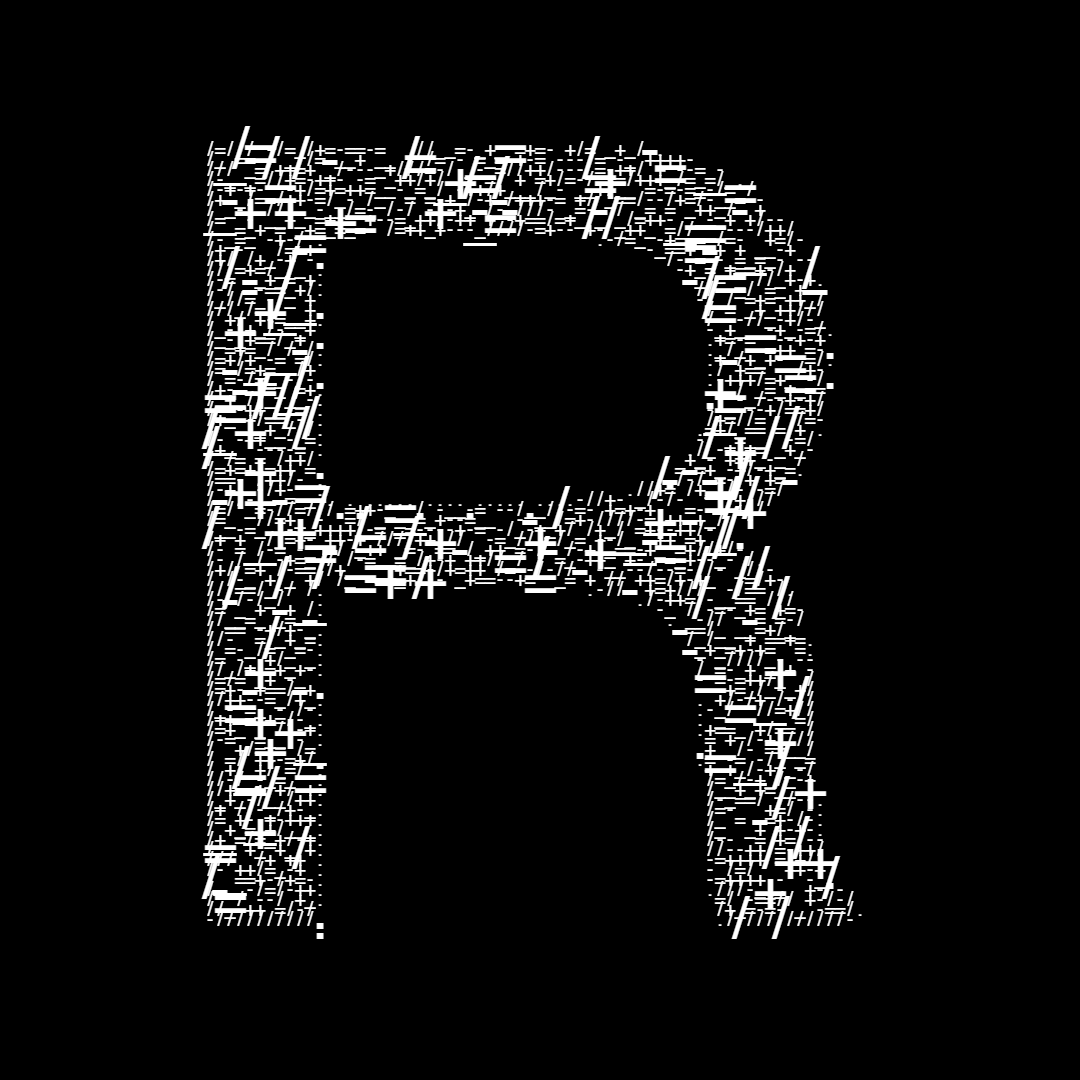
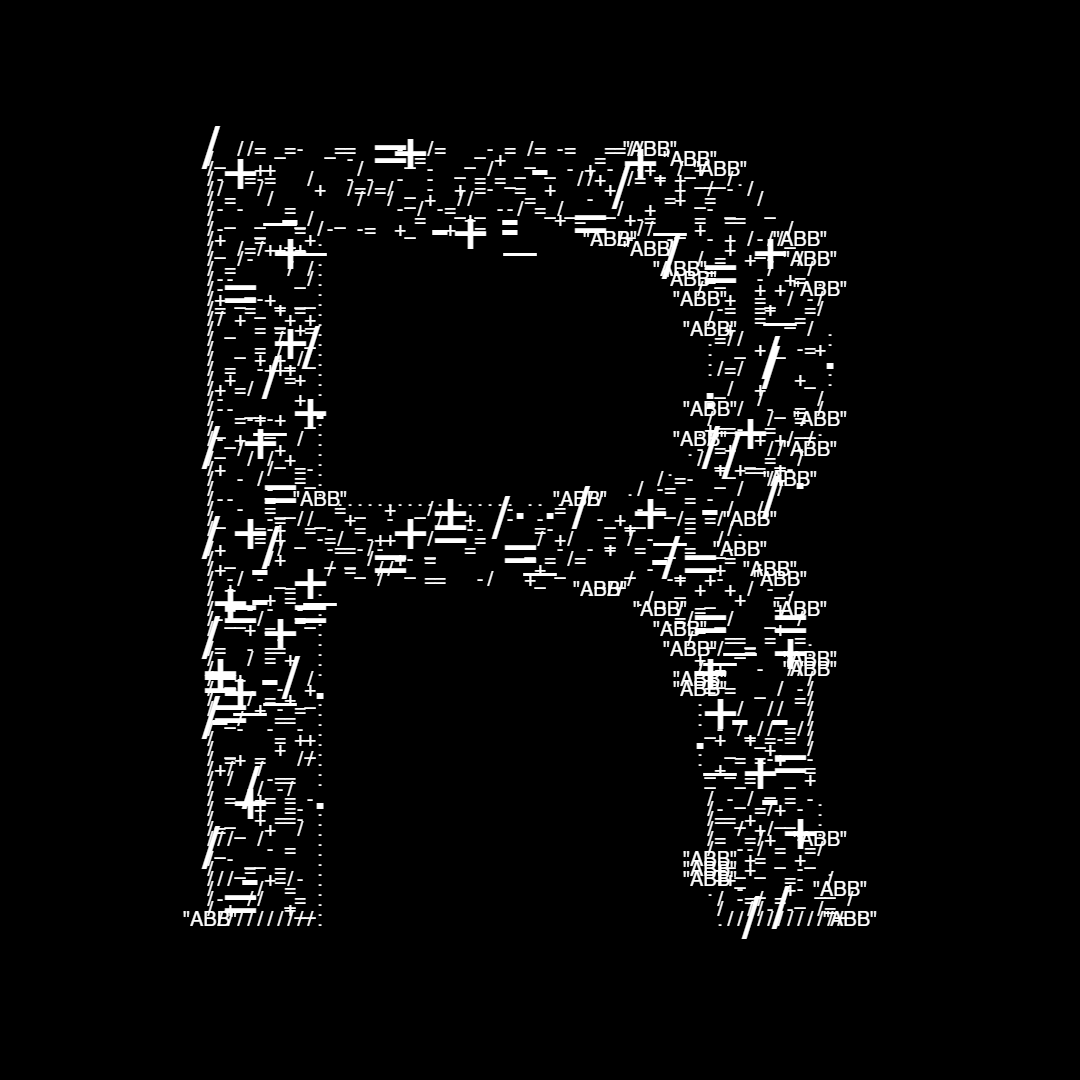
update portfolio

Changed region(s): [[0.1833, 0.1222, 0.825, 0.8861]]

diff --git a/portfolio.html b/portfolio.html
@@ -28,9 +28,7 @@
                 <li class="navbar__item">
                     <a href="index.html" class="navbar__links" id="home-page">Home</a>
                 </li>
-                <li class="navbar__item">
-                    <a href="qualifications.html" class="navbar__links" id="about-page">About</a>
-                </li>
+
                 <li class="navbar__item">
                     <a href="portfolio.html" class="navbar__links" id="portfolio-page">Portfolio</a>
                 </li>
@@ -91,7 +89,7 @@
                 <div class="contact__column">
                     <p class="contact__text">
                         
-                        JavaScript, Graphic Design, Creative Coding
+                        JavaScript | Graphic Design | Creative Coding
                         <br />
                         Personal Project
                         <br />
@@ -102,10 +100,10 @@
                 <div class="contact__column">
                     <p class="contact__text">
                     <p class="contact__text">
-                        <a href="https://instagram.com/khai_zone/" target="_blank">Github: khaihuyennguyen</a>
+                        <a> Experementing noice frequency into shapes and objects. Click Ctrl + C to save </a>
                     </p>
                     <p class="contact__text">
-                        <a href="mailto:enquiries@khai.zone" target="_blank"></a>
+                        <a href="mailto:nguyenkhaihuyen1990@gmail.com" target="_blank"></a>
                     </p>
                     </p>
                 </div>
@@ -127,7 +125,7 @@
                 <div class="contact__column">
                     <p class="contact__text">
         
-                        JavaScript, Graphic Design, Creative Coding
+                        JavaScript | Graphic Design | Creative Coding
                         <br />
                         Personal Project
                         <br />
@@ -149,21 +147,29 @@
         </section>
                 <section class="section--work">
                 
-                    <img class="gallery__img" src="./images/r.png" alt="" />
+                            <div class="gallery">
+                                <div class="gallery__item">
+                                    <a href="https://abb-tamu.herokuapp.com/#" target="_blank"> </a>
+                                    <img  href="https://abb-tamu.herokuapp.com/#" target="#" class="gallery__img" src="./images/r.png" alt="" />
+                                    
+                                    <h5 >Please contact <a href="mailto:nguyenkhaihuyen1990@gmail.com" target="_blank">me</a> for Github source code</h5>
+                                </div>
+                            
+                            </div>
                 
                 
                 </section>
                 <section class="section--contact">
-                    <h2>Random Connections</h2>
+                    <h2><a href="https://abb-tamu.herokuapp.com/#" target="_blank">Website: ABB </a></h2>
                     <div class="border"></div>
                     <div class="contact__inner">
                 
                         <div class="contact__column">
                             <p class="contact__text">
                 
-                                JavaScript, Graphic Design, Creative Coding
+                                Back-end | Ruby on Rails | Ruby | Jira | Git | Agile | Heroku
                                 <br />
-                                Personal Project
+                                Group Project | client
                                 <br />
                 
                                 <br />
@@ -172,69 +178,19 @@
                         <div class="contact__column">
                             <p class="contact__text">
                             <p class="contact__text">
-                                <a>Using JavaScript as a medium for random connections between thoses points and let them move freely in
-                                    space. Refreshing the website to see it restart to a new position. The image can be saved by
-                                    clicking ctrl + c</a>
+                                <a>Building a web application for ABB organization: Using
+                                Heroku, visual code, Git, Jira, and PostgreSQL.
+                                </a>
                             </p>
+                            
                             <p class="contact__text">
-                                <a href="mailto:enquiries@khai.zone" target="_blank"></a>
+                                <a href="https://abb-tamu.herokuapp.com/#" target="_blank">Website: ABB </a>
                             </p>
                             </p>
                         </div>
                     </div>
                 </section>
-    <section class="section--work">
-        <div class="gallery">
-            <div class="gallery__item">
-                <img class="gallery__img" src="./images/r.png" alt="" />
-                <p class="gallery__caption"></p>
-            </div>
-            <div class="gallery__item">
-                <img class="gallery__img" src="./images/work/image_1.jpg" alt="" />
-                <p class="gallery__caption"></p>
-            </div>
-            <div class="gallery__item">
-                <img class="gallery__img" src="./images/work/image_2.jpg" alt="" />
-                <p class="gallery__caption"></p>
-            </div>
-            <div class="gallery__item">
-                <img class="gallery__img" src="./images/work/image_3.jpg" alt="" />
-                <p class="gallery__caption"></p>
-            </div>
-            <div class="gallery__item">
-                <img class="gallery__img" src="./images/work/image_4.jpg" alt="" />
-                <p class="gallery__caption"></p>
-            </div>
-            <div class="gallery__item">
-                <img class="gallery__img" src="./images/work/image_5.jpg" alt="" />
-                <p class="gallery__caption"></p>
-            </div>
-            <div class="gallery__item">
-                <img class="gallery__img" src="./images/work/image_6.jpg" alt="" />
-                <p class="gallery__caption"></p>
-            </div>
-            <div class="gallery__item">
-                <img class="gallery__img" src="./images/work/image_7.jpg" alt="" />
-                <p class="gallery__caption"></p>
-            </div>
-            <div class="gallery__item">
-                <img class="gallery__img" src="./images/work/image_8.jpg" alt="" />
-                <p class="gallery__caption"></p>
-            </div>
-            <div class="gallery__item">
-                <img class="gallery__img" src="./images/work/image_9.jpg" alt="" />
-                <p class="gallery__caption"></p>
-            </div>
-            <div class="gallery__item">
-                <img class="gallery__img" src="./images/work/image_10.jpg" alt="" />
-                <p class="gallery__caption"></p>
-            </div>
-            <div class="gallery__item">
-                <img class="gallery__img" src="./images/work/image_11.jpg" alt="" />
-                <p class="gallery__caption"></p>
-            </div>
-        </div>
-    </section>
+
 
     <section class="section--contact">
         <div class="border"></div>

diff --git a/script.js b/script.js
@@ -20,7 +20,7 @@ const handleMouseUp = () => {
 
 const handleMouseMove = (event) => {
   const scrollAmount = document.scrollingElement.scrollTop;
-  const paintbrushHeight = paintbrush.naturalHeight;
+  const paintbrushHeight = 5;
   const paintLimit = window.innerHeight - paintbrushHeight;
   const left = event.clientX;
   const top = Math.min(paintLimit, event.clientY + scrollAmount);
@@ -29,7 +29,7 @@ const handleMouseMove = (event) => {
 
 const handleTouchMove = (event) => {
   const scrollAmount = document.scrollingElement.scrollTop;
-  const paintbrushHeight = paintbrush.naturalHeight;
+  const paintbrushHeight = 5;
   const paintLimit = window.innerHeight - paintbrushHeight;
   const left = event.touches[0].clientX;
   const top = Math.min(paintLimit, event.touches[0].clientY + scrollAmount);
@@ -42,9 +42,9 @@ canvas.width = window.innerWidth;
 canvas.height = window.innerHeight;
 
 rifke = document.createElement('img');
-rifke.src = 'images/TAMU1.png';
+rifke.src = 'images/JS.png';
 dan = document.createElement('img');
-dan.src = 'images/TAMU2.png';
+dan.src = 'images/TAMU1.png';
 
 canvas.addEventListener('mousemove', handleMouseMove);
 window.addEventListener('mousedown', handleMouseDown);

diff --git a/style2.css b/style2.css
@@ -104,7 +104,10 @@ a {
 }
 
 .gallery__img {
-  width: 100%;
+    width: 480px;
+    height: 100%;
+    margin: auto;
+    display: flex;
 }
 
 .section--contact {
@@ -160,3 +163,10 @@ a {
   background-color: #ffd200;
 }
 
+canvas {
+ 
+
+    margin: auto;
+    display: flex;
+  
+}
